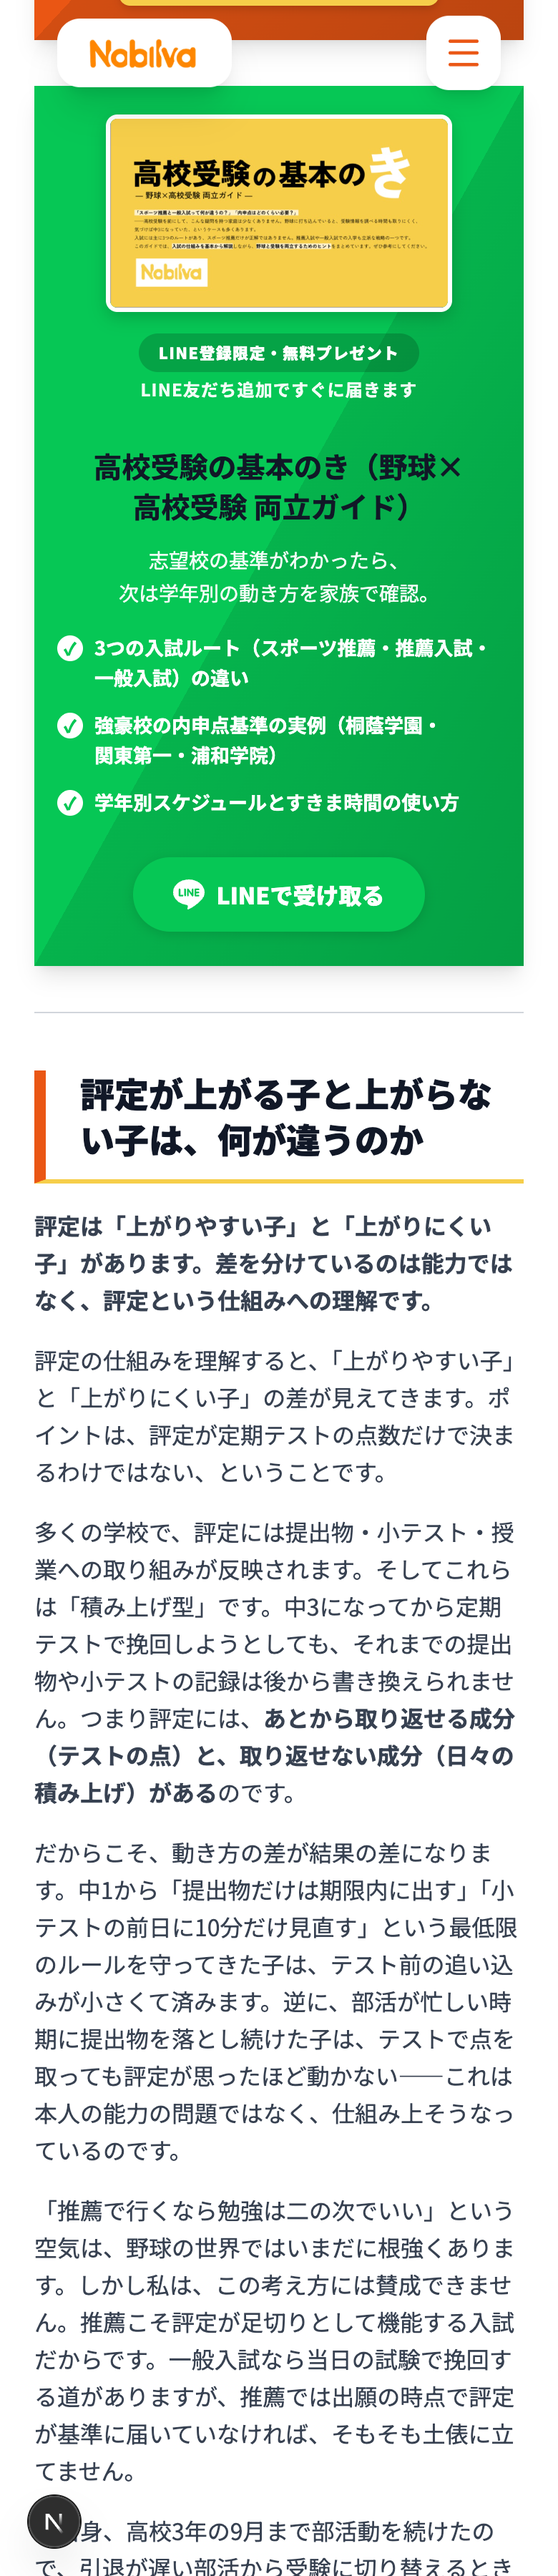
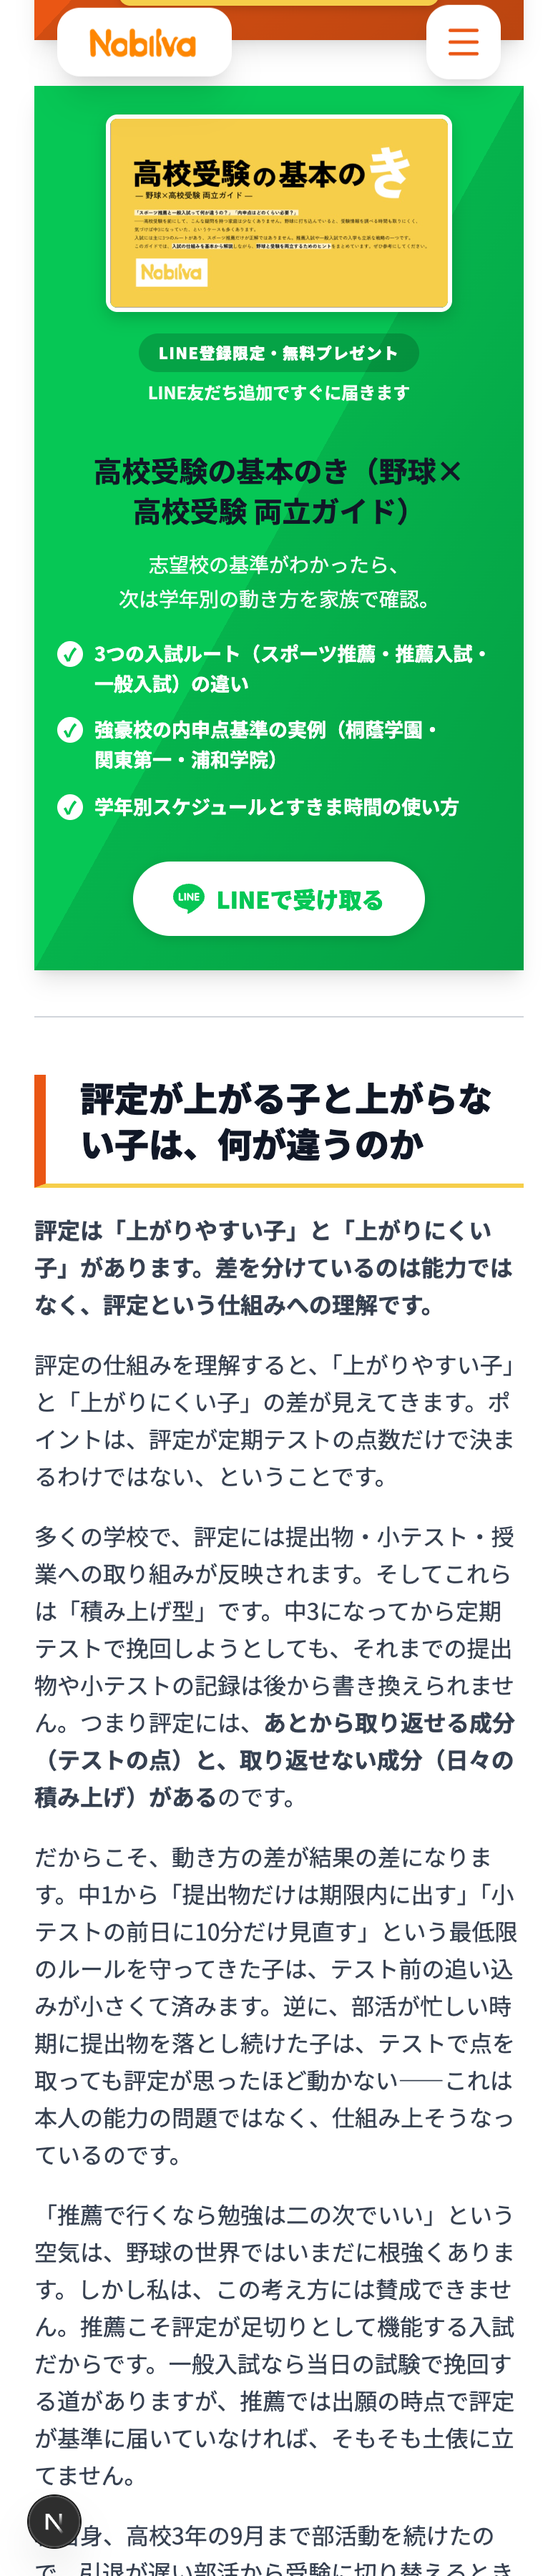
blog: LINE 特典カードの残り指摘対応 — (a) PC foot (ボタン + QR) の上下隙間を極小化、(b) 緑ボタンが緑背景に埋もれるので白地緑文字に反転、(c) タイトル・ラベル・サブも白文字に統一 (既存の text-gray-900 系クラスを上書き)。(A) `app/globals.css` の `.cta-line-inner-gift` の row-gap を 16px → 8px → 2px まで詰め、bottom padding を 24px → 12px に、`.cta-line-right > .cta-line-items { margin:0 !im

diff --git a/app/globals.css b/app/globals.css
@@ -448,17 +448,21 @@
     @apply w-full bg-white rounded-xl p-4 text-center;
     border: 1.5px dashed #06C755;
   }
-  .cta-block-line .cta-line-gift-label {
-    @apply text-xs text-gray-500 font-semibold tracking-wider m-0;
+  /* 新デザインは緑塗りつぶし背景なので、既存のグレー文字クラスは白で上書き */
+  .cta-block-line .cta-line-gift-label,
+  .cta-block-line .cta-line-label {
+    color: #fff !important;
   }
-  .cta-block-line .cta-line-gift-name {
-    @apply text-lg font-extrabold text-gray-900 leading-snug m-0 mt-1;
+  .cta-block-line .cta-line-gift-name,
+  .cta-block-line .cta-line-heading {
+    color: #fff !important;
   }
   .cta-block-line .cta-block-title {
-    @apply text-lg md:text-xl font-bold text-gray-900 leading-snug;
+    color: #fff !important;
   }
-  .cta-block-line .cta-block-description {
-    @apply text-sm md:text-base text-gray-600 leading-relaxed;
+  .cta-block-line .cta-block-description,
+  .cta-block-line .cta-line-sub {
+    color: #fff !important;
   }
   .prose .cta-block-line a.cta-block-button,
   .cta-block-line .cta-block-button {
@@ -469,6 +473,12 @@
     align-items: center;
     gap: 8px;
     align-self: center;
+  }
+  /* 緑背景の塗りつぶし CTA では緑ボタンが背景に埋もれるため、白地緑文字で反転 */
+  .prose .cta-block-line a.cta-line-button,
+  .cta-block-line .cta-line-button {
+    background: #fff !important;
+    color: #06C755 !important;
   }
   .cta-block-line .cta-block-button:hover {
     @apply shadow-lg scale-105;
@@ -507,14 +517,14 @@
   @media (min-width: 768px) {
     .cta-line-inner-gift {
       max-width: 820px;
-      padding: 22px 28px 24px !important;
+      padding: 22px 28px 12px !important;
       display: grid !important;
       grid-template-columns: 42% 1fr;
       grid-template-areas:
         "left right"
         "foot foot";
       column-gap: 28px;
-      row-gap: 16px;
+      row-gap: 2px;
       align-items: stretch;
       text-align: left !important;
     }
@@ -541,6 +551,10 @@
     .cta-line-inner-gift > .cta-line-right {
       grid-area: right;
       align-self: center;
+    }
+    /* items の bottom margin が foot との隙間を広げるので打ち消す */
+    .cta-line-inner-gift > .cta-line-right > .cta-line-items {
+      margin: 0 !important;
     }
     .cta-line-inner-gift > .cta-line-foot {
       grid-area: foot;
